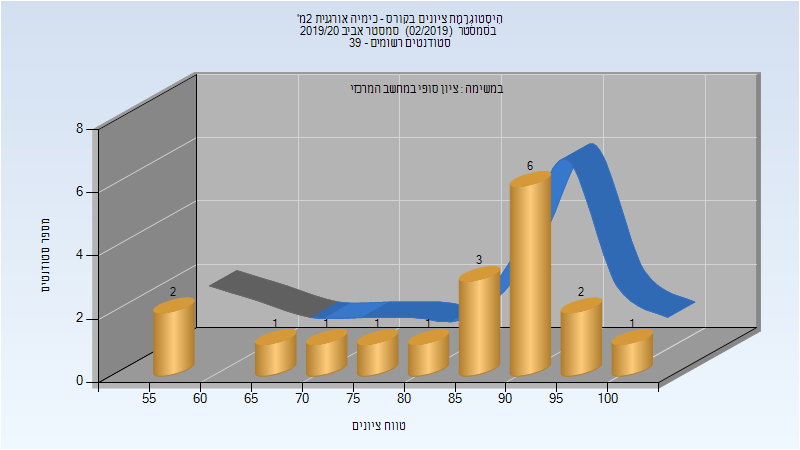
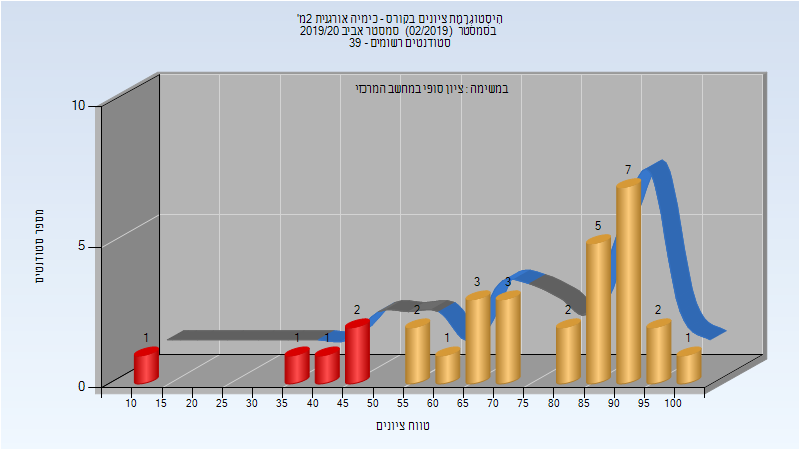
Deploy michael-maltsev/technion-histograms to github.com/michael-maltsev/technion-histograms.git:gh-pages

diff --git a/124911/index.html b/124911/index.html
@@ -617,36 +617,12 @@
 </thead>
 <tbody>
 <tr>
-<td>דה-רויטר גרהם</td>
+<td>מעיין גליה</td>
 <td>מדריך מעבדה - עם הרשאות מרצה אחראי</td>
 </tr>
 <tr>
-<td>מעיין גליה</td>
+<td>דה-רויטר גרהם</td>
 <td></td>
-</tr>
-<tr>
-<td>אביגדורי עידן</td>
-<td>מדריך מעבדה</td>
-</tr>
-<tr>
-<td>חסין אסף</td>
-<td>מדריך מעבדה</td>
-</tr>
-<tr>
-<td>לוי רומי</td>
-<td>מדריך מעבדה</td>
-</tr>
-<tr>
-<td>עואד מוחמד</td>
-<td>מדריך מעבדה</td>
-</tr>
-<tr>
-<td>ליבוביץ ליאב</td>
-<td>מדריך מעבדה</td>
-</tr>
-<tr>
-<td>לפס שי</td>
-<td>מדריך מעבדה</td>
 </tr>
 <tr>
 <td>בשקורוב רומן</td>
@@ -674,6 +650,30 @@
 </tr>
 <tr>
 <td>זלמן בת-חן</td>
+<td>מדריך מעבדה</td>
+</tr>
+<tr>
+<td>אביגדורי עידן</td>
+<td>מדריך מעבדה</td>
+</tr>
+<tr>
+<td>חסין אסף</td>
+<td>מדריך מעבדה</td>
+</tr>
+<tr>
+<td>לוי רומי</td>
+<td>מדריך מעבדה</td>
+</tr>
+<tr>
+<td>עואד מוחמד</td>
+<td>מדריך מעבדה</td>
+</tr>
+<tr>
+<td>ליבוביץ ליאב</td>
+<td>מדריך מעבדה</td>
+</tr>
+<tr>
+<td>לפס שי</td>
 <td>מדריך מעבדה</td>
 </tr>
 </tbody>

diff --git a/124711/index.html b/124711/index.html
@@ -503,6 +503,32 @@
 </tr>
 </tbody>
 </table>
+<h3>סופי מועד ב'</h3>
+<p><img src="201902/Final_B.png" alt="201902 Final_B" /></p>
+<table>
+<thead>
+<tr>
+<th>סטודנטים</th>
+<th>עברו/נכשלו</th>
+<th>אחוז עוברים</th>
+<th>ציון מינימלי</th>
+<th>ציון מקסימלי</th>
+<th>ממוצע</th>
+<th>חציון</th>
+</tr>
+</thead>
+<tbody>
+<tr>
+<td>15</td>
+<td>10/5</td>
+<td>67</td>
+<td>11</td>
+<td>92</td>
+<td>61.8</td>
+<td>60</td>
+</tr>
+</tbody>
+</table>
 <h3>סופי</h3>
 <p><img src="201902/Finals.png" alt="201902 Finals" /></p>
 <table>
@@ -519,13 +545,13 @@
 </thead>
 <tbody>
 <tr>
-<td>18</td>
-<td>18/0</td>
+<td>31</td>
+<td>26/5</td>
+<td>84</td>
+<td>11</td>
 <td>100</td>
-<td>56</td>
-<td>100</td>
-<td>84.278</td>
-<td>88.5</td>
+<td>74.548</td>
+<td>82</td>
 </tr>
 </tbody>
 </table>

diff --git a/124413/index.html b/124413/index.html
@@ -409,6 +409,32 @@
 </tr>
 </tbody>
 </table>
+<h3>סופי מועד ב'</h3>
+<p><img src="201902/Final_B.png" alt="201902 Final_B" /></p>
+<table>
+<thead>
+<tr>
+<th>סטודנטים</th>
+<th>עברו/נכשלו</th>
+<th>אחוז עוברים</th>
+<th>ציון מינימלי</th>
+<th>ציון מקסימלי</th>
+<th>ממוצע</th>
+<th>חציון</th>
+</tr>
+</thead>
+<tbody>
+<tr>
+<td>13</td>
+<td>7/6</td>
+<td>54</td>
+<td>0</td>
+<td>95</td>
+<td>59.538</td>
+<td>69</td>
+</tr>
+</tbody>
+</table>
 <h3>סופי</h3>
 <p><img src="201902/Finals.png" alt="201902 Finals" /></p>
 <table>
@@ -425,12 +451,12 @@
 </thead>
 <tbody>
 <tr>
-<td>37</td>
-<td>31/6</td>
-<td>84</td>
-<td>33</td>
+<td>41</td>
+<td>35/6</td>
+<td>85</td>
+<td>36</td>
 <td>100</td>
-<td>73.514</td>
+<td>73.976</td>
 <td>73</td>
 </tr>
 </tbody>

diff --git a/124911/README.md b/124911/README.md
@@ -179,14 +179,8 @@
 
 | איש סגל | תפקיד |
 | ---- | ---- |
-| דה-רויטר גרהם | מדריך מעבדה - עם הרשאות מרצה אחראי |
-| מעיין גליה |  |
-| אביגדורי עידן | מדריך מעבדה |
-| חסין אסף | מדריך מעבדה |
-| לוי רומי | מדריך מעבדה |
-| עואד מוחמד | מדריך מעבדה |
-| ליבוביץ ליאב | מדריך מעבדה |
-| לפס שי | מדריך מעבדה |
+| מעיין גליה | מדריך מעבדה - עם הרשאות מרצה אחראי |
+| דה-רויטר גרהם |  |
 | בשקורוב רומן | מדריך מעבדה |
 | גולדשטיין יוליה | מדריך מעבדה |
 | בורג טליה | מדריך מעבדה |
@@ -194,6 +188,12 @@
 | עוזרי ענבל | מדריך מעבדה |
 | מקרוב קונסטנטין | מדריך מעבדה |
 | זלמן בת-חן | מדריך מעבדה |
+| אביגדורי עידן | מדריך מעבדה |
+| חסין אסף | מדריך מעבדה |
+| לוי רומי | מדריך מעבדה |
+| עואד מוחמד | מדריך מעבדה |
+| ליבוביץ ליאב | מדריך מעבדה |
+| לפס שי | מדריך מעבדה |
 
 ### סופי מועד א'
 

diff --git a/124711/README.md b/124711/README.md
@@ -156,11 +156,19 @@
 | ---- | ---- | ---- | ---- | ---- | ---- | ---- |
 | 18 | 18/0 | 100 | 56 | 100 | 84.278 | 88.5 |
 
+### סופי מועד ב'
+
+![201902 Final_B](201902/Final_B.png)
+
+| סטודנטים | עברו/נכשלו | אחוז עוברים | ציון מינימלי | ציון מקסימלי | ממוצע | חציון |
+| ---- | ---- | ---- | ---- | ---- | ---- | ---- |
+| 15 | 10/5 | 67 | 11 | 92 | 61.8 | 60 |
+
 ### סופי
 
 ![201902 Finals](201902/Finals.png)
 
 | סטודנטים | עברו/נכשלו | אחוז עוברים | ציון מינימלי | ציון מקסימלי | ממוצע | חציון |
 | ---- | ---- | ---- | ---- | ---- | ---- | ---- |
-| 18 | 18/0 | 100 | 56 | 100 | 84.278 | 88.5 |
+| 31 | 26/5 | 84 | 11 | 100 | 74.548 | 82 |
 

diff --git a/124413/README.md b/124413/README.md
@@ -124,11 +124,19 @@
 | ---- | ---- | ---- | ---- | ---- | ---- | ---- |
 | 37 | 31/6 | 84 | 33 | 100 | 73.514 | 73 |
 
+### סופי מועד ב'
+
+![201902 Final_B](201902/Final_B.png)
+
+| סטודנטים | עברו/נכשלו | אחוז עוברים | ציון מינימלי | ציון מקסימלי | ממוצע | חציון |
+| ---- | ---- | ---- | ---- | ---- | ---- | ---- |
+| 13 | 7/6 | 54 | 0 | 95 | 59.538 | 69 |
+
 ### סופי
 
 ![201902 Finals](201902/Finals.png)
 
 | סטודנטים | עברו/נכשלו | אחוז עוברים | ציון מינימלי | ציון מקסימלי | ממוצע | חציון |
 | ---- | ---- | ---- | ---- | ---- | ---- | ---- |
-| 37 | 31/6 | 84 | 33 | 100 | 73.514 | 73 |
+| 41 | 35/6 | 85 | 36 | 100 | 73.976 | 73 |
 
